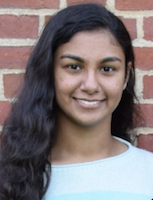
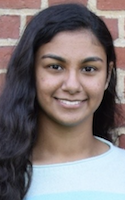
update ria image size

diff --git a/index.html b/index.html
@@ -109,9 +109,9 @@
           </a>
         </div>
         <div class="photo_container">
-          <a href="https://www.csail.mit.edu/person/ria-das">
+          <a href="https://riadas.github.io/">
             <img
-              src="images/default-thumb.png"
+              src="images/ria-thumb.png"
               title="Ria Das, Masters Student"
               />
           </a>
